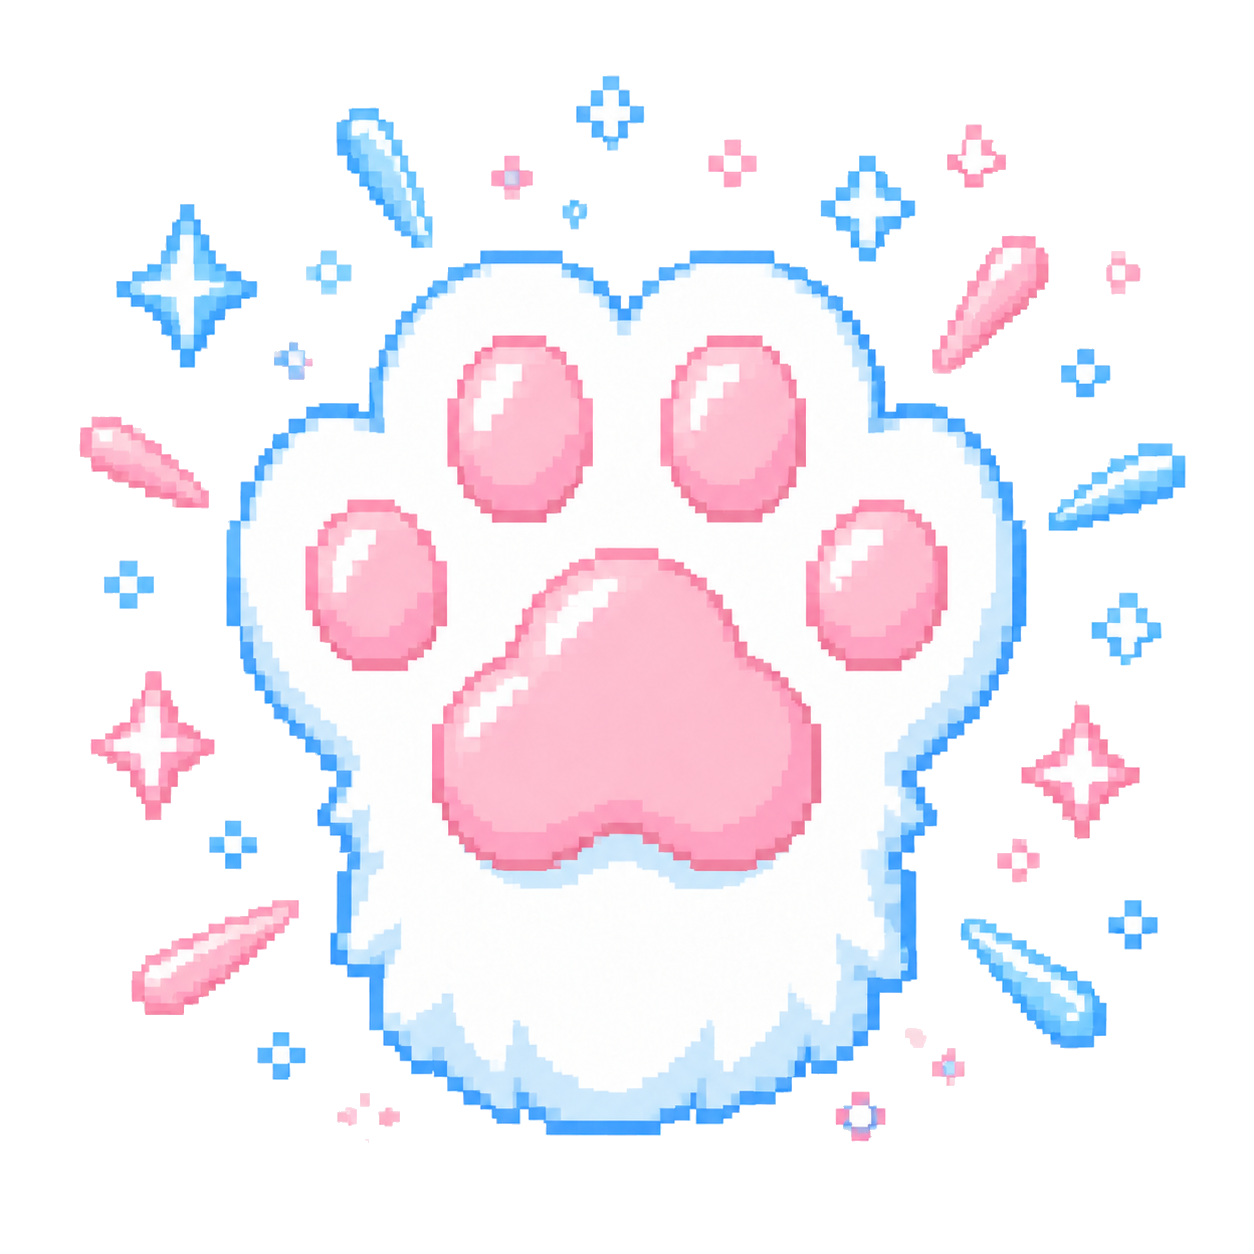
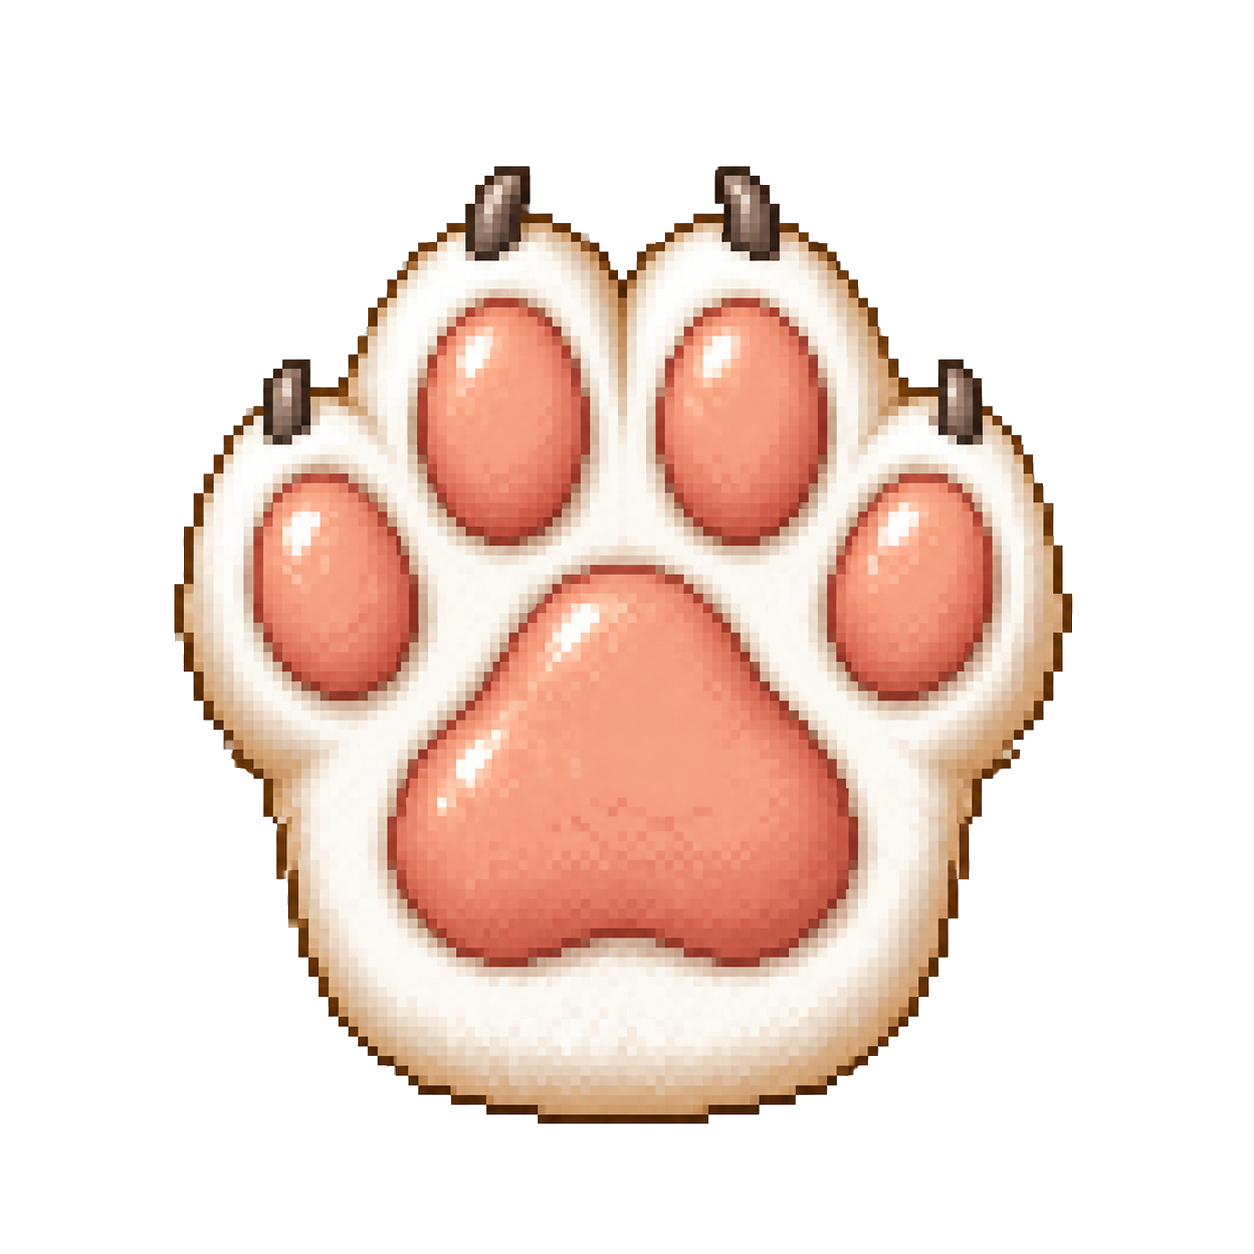
Release v0.1.13 paw effects

diff --git a/CHANGELOG.md b/CHANGELOG.md
@@ -1,5 +1,17 @@
 # Changelog
 
+## 0.1.13
+
+### Changed
+
+- Replaced cat, dog, and bear paw reward effect sprites with cleaner animal-specific paws and no surrounding particle clutter.
+- Changed the keyboard counter hook to count only the first key-down event for each held key, preventing OS key-repeat from inflating counts.
+
+### Fixed
+
+- Added key-up state tracking and hook reset cleanup so held keys cannot remain stuck as already counted after visibility or hook changes.
+- Updated smoke checks to guard the no-repeat keyboard counter behavior and the refreshed reward effect assets.
+
 ## 0.1.12
 
 ### Added

diff --git a/README.ja.md b/README.ja.md
@@ -4,12 +4,12 @@
 
 <p align="center">
   <a href="https://github.com/himomohi/Codexy-pet-usages-ring/releases/latest">
-    <img alt="Download latest release" src="https://img.shields.io/badge/Download_latest_release-v0.1.12-3CEBBD?style=for-the-badge&logo=github">
+    <img alt="Download latest release" src="https://img.shields.io/badge/Download_latest_release-v0.1.13-3CEBBD?style=for-the-badge&logo=github">
   </a>
 </p>
 
 <p align="center">
-  <a href="CHANGELOG.md#0112"><img alt="Version 0.1.12" src="https://img.shields.io/badge/version-0.1.12-3CEBBD?style=for-the-badge"></a>
+  <a href="CHANGELOG.md#0113"><img alt="Version 0.1.13" src="https://img.shields.io/badge/version-0.1.13-3CEBBD?style=for-the-badge"></a>
   <a href="LICENSE"><img alt="MIT License" src="https://img.shields.io/badge/license-MIT-56B2FF?style=for-the-badge"></a>
   <img alt="Windows 10 and 11" src="https://img.shields.io/badge/Windows-10%20%2F%2011-0078D4?style=for-the-badge">
   <img alt="PowerShell 5.1+" src="https://img.shields.io/badge/PowerShell-5.1%2B-3CEBBD?style=for-the-badge">

diff --git a/README.ko.md b/README.ko.md
@@ -4,12 +4,12 @@
 
 <p align="center">
   <a href="https://github.com/himomohi/Codexy-pet-usages-ring/releases/latest">
-    <img alt="Download latest release" src="https://img.shields.io/badge/Download_latest_release-v0.1.12-3CEBBD?style=for-the-badge&logo=github">
+    <img alt="Download latest release" src="https://img.shields.io/badge/Download_latest_release-v0.1.13-3CEBBD?style=for-the-badge&logo=github">
   </a>
 </p>
 
 <p align="center">
-  <a href="CHANGELOG.md#0112"><img alt="Version 0.1.12" src="https://img.shields.io/badge/version-0.1.12-3CEBBD?style=for-the-badge"></a>
+  <a href="CHANGELOG.md#0113"><img alt="Version 0.1.13" src="https://img.shields.io/badge/version-0.1.13-3CEBBD?style=for-the-badge"></a>
   <a href="LICENSE"><img alt="MIT License" src="https://img.shields.io/badge/license-MIT-56B2FF?style=for-the-badge"></a>
   <img alt="Windows 10 and 11" src="https://img.shields.io/badge/Windows-10%20%2F%2011-0078D4?style=for-the-badge">
   <img alt="PowerShell 5.1+" src="https://img.shields.io/badge/PowerShell-5.1%2B-3CEBBD?style=for-the-badge">

diff --git a/README.md b/README.md
@@ -4,12 +4,12 @@
 
 <p align="center">
   <a href="https://github.com/himomohi/Codexy-pet-usages-ring/releases/latest">
-    <img alt="Download latest release" src="https://img.shields.io/badge/Download_latest_release-v0.1.12-3CEBBD?style=for-the-badge&logo=github">
+    <img alt="Download latest release" src="https://img.shields.io/badge/Download_latest_release-v0.1.13-3CEBBD?style=for-the-badge&logo=github">
   </a>
 </p>
 
 <p align="center">
-  <a href="CHANGELOG.md#0112"><img alt="Version 0.1.12" src="https://img.shields.io/badge/version-0.1.12-3CEBBD?style=for-the-badge"></a>
+  <a href="CHANGELOG.md#0113"><img alt="Version 0.1.13" src="https://img.shields.io/badge/version-0.1.13-3CEBBD?style=for-the-badge"></a>
   <a href="LICENSE"><img alt="MIT License" src="https://img.shields.io/badge/license-MIT-56B2FF?style=for-the-badge"></a>
   <img alt="Windows 10 and 11" src="https://img.shields.io/badge/Windows-10%20%2F%2011-0078D4?style=for-the-badge">
   <img alt="PowerShell 5.1+" src="https://img.shields.io/badge/PowerShell-5.1%2B-3CEBBD?style=for-the-badge">

diff --git a/README.zh.md b/README.zh.md
@@ -4,12 +4,12 @@
 
 <p align="center">
   <a href="https://github.com/himomohi/Codexy-pet-usages-ring/releases/latest">
-    <img alt="Download latest release" src="https://img.shields.io/badge/Download_latest_release-v0.1.12-3CEBBD?style=for-the-badge&logo=github">
+    <img alt="Download latest release" src="https://img.shields.io/badge/Download_latest_release-v0.1.13-3CEBBD?style=for-the-badge&logo=github">
   </a>
 </p>
 
 <p align="center">
-  <a href="CHANGELOG.md#0112"><img alt="Version 0.1.12" src="https://img.shields.io/badge/version-0.1.12-3CEBBD?style=for-the-badge"></a>
+  <a href="CHANGELOG.md#0113"><img alt="Version 0.1.13" src="https://img.shields.io/badge/version-0.1.13-3CEBBD?style=for-the-badge"></a>
   <a href="LICENSE"><img alt="MIT License" src="https://img.shields.io/badge/license-MIT-56B2FF?style=for-the-badge"></a>
   <img alt="Windows 10 and 11" src="https://img.shields.io/badge/Windows-10%20%2F%2011-0078D4?style=for-the-badge">
   <img alt="PowerShell 5.1+" src="https://img.shields.io/badge/PowerShell-5.1%2B-3CEBBD?style=for-the-badge">